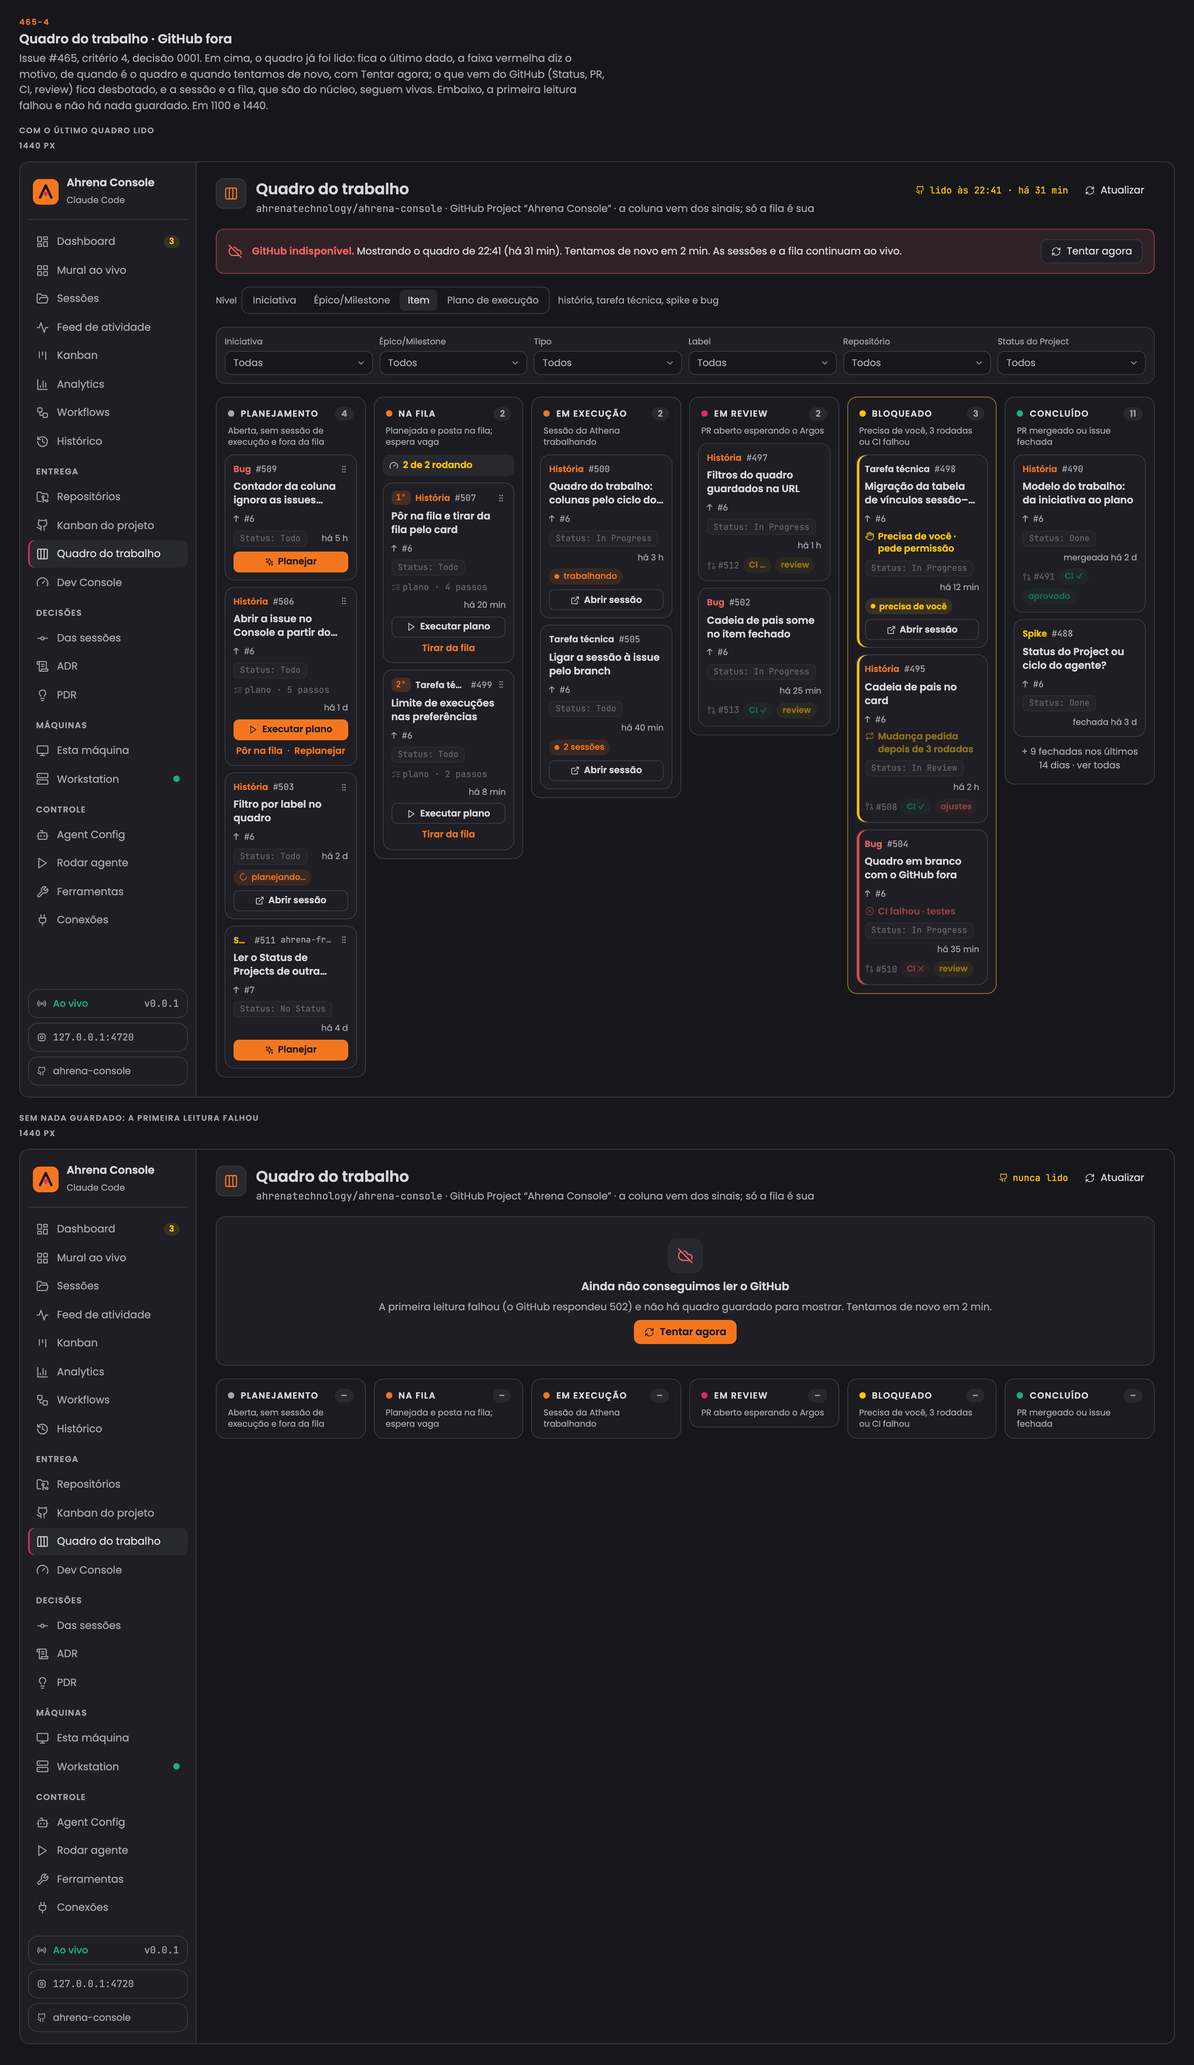
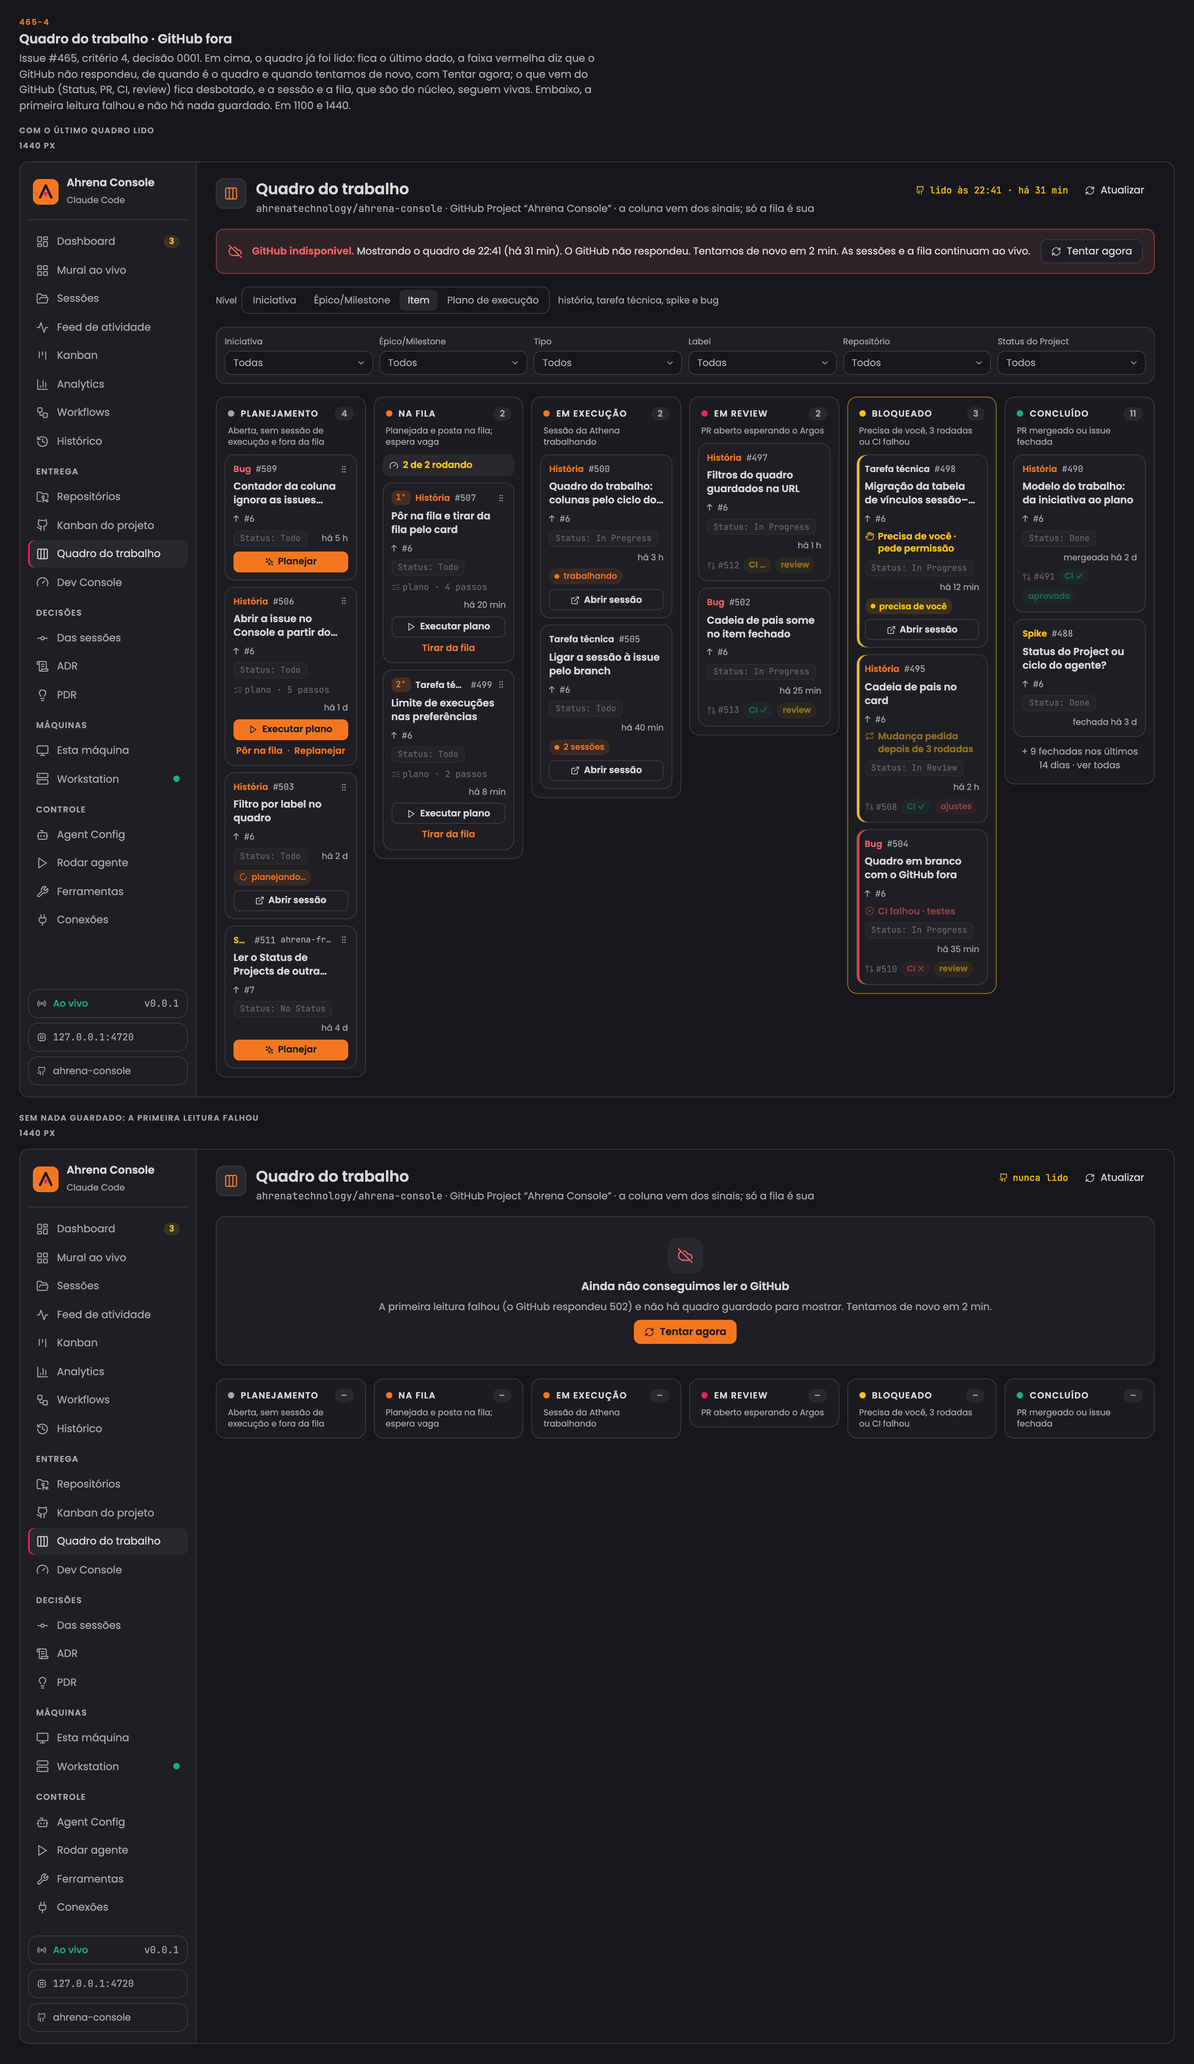
docs(wireframes): draw the stale band per reason, 614-1 and 614-2, approved by the design owner (#614)

diff --git a/docs/wireframes/index.html b/docs/wireframes/index.html
@@ -145,6 +145,10 @@
   --status-abandoned-badge: #f3f3f3;
 }
 /* marca:fim */
+.faixa.wb-stale-neutral { background: var(--raised); border-color: var(--border); }
+.faixa.wb-stale-neutral .ic, .faixa.wb-stale-neutral b { color: var(--text); }
+.faixa .wb-band-acts { margin-left: auto; display: flex; gap: 8px; flex: none; }
+.faixa .wb-band-acts .btn { margin-left: 0; }
 </style>
 <style>
 /* Layout: índice fixo à esquerda e, à direita, cada tela num quadro do tamanho real, com o que veio do CCAM embaixo. */
@@ -5475,9 +5479,15 @@ const TELAS = [
   { id: 'work-board-empty', cod: '465-3', nome: 'Quadro do trabalho · projeto sem issue', sub: 'Issue #465. O Project não tem nenhuma issue: o vazio diz o que o quadro mostraria e leva ao Project no GitHub ou à troca de Project. As seis colunas ficam com zero, para a pessoa já ver o ciclo; os filtros ficam desligados. Em 1100 e 1440.',
     html: () => wbBoth(wbEmptyScreen),
     n: N(['O EmptyState do C19: ícone, frase, o que fazer.'], ['Sem conexão com o GitHub, a tela é o “Conectar ao GitHub” do C42, não este vazio.', 'As colunas vazias ficam sem “Nenhuma” por coluna e sem o limite: o vazio de cima já explica.']) },
-  { id: 'work-board-stale', cod: '465-4', nome: 'Quadro do trabalho · GitHub fora', sub: 'Issue #465, critério 4, decisão 0001. Em cima, o quadro já foi lido: fica o último dado, a faixa vermelha diz o motivo, de quando é o quadro e quando tentamos de novo, com Tentar agora; o que vem do GitHub (Status, PR, CI, review) fica desbotado, e a sessão e a fila, que são do núcleo, seguem vivas. Embaixo, a primeira leitura falhou e não há nada guardado. Em 1100 e 1440.',
+  { id: 'work-board-stale', cod: '465-4', nome: 'Quadro do trabalho · GitHub fora', sub: 'Issue #465, critério 4, decisão 0001. Em cima, o quadro já foi lido: fica o último dado, a faixa vermelha diz que o GitHub não respondeu, de quando é o quadro e quando tentamos de novo, com Tentar agora; o que vem do GitHub (Status, PR, CI, review) fica desbotado, e a sessão e a fila, que são do núcleo, seguem vivas. Embaixo, a primeira leitura falhou e não há nada guardado. Em 1100 e 1440.',
     html: () => wbStaleHtml(),
     n: N(['Nada.'], ['Decisão 0001: o quadro guarda a última leitura boa e diz por quê; nunca esvazia porque o GitHub caiu. O texto é o mesmo do C19 (“GitHub indisponível. Mostrando … de 22:41. Tentamos de novo em 2 min.”).', 'No motivo de Bloqueado vale o mesmo: “CI falhou” e “Mudança pedida depois de 3 rodadas” vêm do GitHub e desbotam; “Precisa de você” vem do núcleo e fica forte.', 'A fila, a posição e o limite estão no banco do núcleo (#477) e não desbotam. As ações continuam: Planejar e Executar plano abrem a sessão neste Mac, e é a sessão que esbarra no GitHub fora (a aprovar, pergunta 11).', 'A hora do cabeçalho fica amarela enquanto o dado é velho, para quem não leu a faixa.']) },
+  { id: 'work-board-stale-bands', cod: '614-1', nome: 'Quadro do trabalho · a faixa por motivo', sub: 'Issue 614 (de 578), proposta. A faixa de leitura velha diz o motivo real que o núcleo entrega (staleReason, com retryAt): limite de taxa com a hora em que volta, credencial recusada com Reconectar, GitHub que não respondeu e sincronização pendente. Mesmo lugar e mesma forma da 465-4; muda título, tom e ação.',
+    html: () => wbReasonBandsHtml(),
+    n: N(['A faixa do C31 (âmbar, relógio) para o limite; a vermelha só quando algo precisa de você ou o GitHub caiu.'], ['“GitHub indisponível” passa a ser só o caso 4 (critério 4 da 614).', 'O “Motivo: …” no fim sai: o título já é o motivo.']) },
+  { id: 'work-board-stale-reasons', cod: '614-2', nome: 'Quadro do trabalho · faixa por motivo na tela', sub: 'Issue 614, proposta. A credencial recusada e o limite de taxa na tela inteira, em 1100 e 1440; o que vem do GitHub segue desbotado.',
+    html: () => wbReasonsHtml(),
+    n: N(['Nada.'], ['Decisão 0001 segue: o quadro guarda a última leitura boa.']) },
   { id: 'work-board-loading', cod: '465-5', nome: 'Quadro do trabalho · carregando', sub: 'Issue #465. Na primeira abertura, enquanto o GitHub é lido: as seis colunas com cards de esqueleto, os contadores em “…”, filtros desligados e Atualizar ocupado. Nas leituras seguintes o quadro fica e só o Atualizar gira. Em 1100 e 1440.',
     html: () => wbBoth(wbLoadingScreen),
     n: N(['O esqueleto do C19.'], ['O esqueleto tem a altura de um card curto, para o quadro não pular quando os dados chegam.']) },
@@ -6471,13 +6481,31 @@ const wbEmptyScreen = w => `${wbHead()}${wbLevels('item')}${wbFilters({}, { off:
   ${wbBoard(w, {}, { blank: true })}`
 
 // 465-4 · GitHub down (decision 0001): the last data read, the band, and the variant without any data saved.
-const wbStaleBand = `<div class="faixa erro"><span class="ic">${ic('cloud-off')}</span><div><b>GitHub indisponível.</b> Mostrando o quadro de 22:41 (há 31 min). Tentamos de novo em 2 min. As sessões e a fila continuam ao vivo.</div><span class="btn contorno">${ic('refresh-cw')}Tentar agora</span></div>`
+const wbStaleBand = `<div class="faixa erro wb-stale-band wb-stale-error"><span class="ic">${ic('cloud-off')}</span><div><b>GitHub indisponível.</b> Mostrando o quadro de 22:41 (há 31 min). O GitHub não respondeu. Tentamos de novo em 2 min. As sessões e a fila continuam ao vivo.</div><span class="btn contorno">${ic('refresh-cw')}Tentar agora</span></div>`
 const WB_READ_OLD = `<span class="wb-read wb-old">${ic('github')}lido às 22:41 · há 31 min</span>`
 const wbStaleScreen = w => `${wbHead({ read: WB_READ_OLD })}${wbStaleBand}${wbLevels('item')}${wbFilters()}<div class="wb-stale">${wbBoard(w, wbCols(), WB_MAIN)}</div>`
 const wbNoCacheScreen = w => `${wbHead({ read: `<span class="wb-read wb-old">${ic('github')}nunca lido</span>` })}
   <div class="cartao vazio wb-empty"><span class="ic" style="color:var(--status-error-text)">${ic('cloud-off')}</span><b>Ainda não conseguimos ler o GitHub</b><span>A primeira leitura falhou (o GitHub respondeu 502) e não há quadro guardado para mostrar. Tentamos de novo em 2 min.</span><span><span class="btn cheio">${ic('refresh-cw')}Tentar agora</span></span></div>
   ${wbBoard(w, {}, { blank: true, count: Object.fromEntries(WB_COLUMNS.map(([k]) => [k, '–'])) })}`
 const wbStaleHtml = () => wbRows([['Com o último quadro lido', wbStaleScreen], ['Sem nada guardado: a primeira leitura falhou', wbNoCacheScreen]])
+
+// 614-1 · the stale band per reason (issue 614, parent 578): one band per staleCode, same place and shape, its own title, tone and action.
+const WB_FROM = 'Mostrando o quadro de 22:41 (há 31 min).'
+const WB_LIVE = 'As sessões e a fila continuam ao vivo.'
+const wbBand = (tone, icon, title, body, acts = '') => `<div class="faixa wb-stale-band wb-stale-${tone}${tone === 'error' ? ' erro' : ''}"><span class="ic">${ic(icon)}</span><div><b>${title}</b> ${body}</div>${acts ? `<span class="wb-band-acts">${acts}</span>` : ''}</div>`
+const WB_RETRY = `<span class="btn contorno">${ic('refresh-cw')}Tentar agora</span>`
+const WB_REASON_BANDS = [
+  ['1 · Limite de taxa, com retryAt no futuro · âmbar, sem botão (o núcleo não chama o GitHub antes da hora)', wbBand('warn', 'clock', 'O GitHub limitou as chamadas.', `${WB_FROM} Volta às 23:16 (em 4 min). ${WB_LIVE}`)],
+  ['2 · Limite de taxa, retryAt nulo ou passado (a pausa já acabou) · âmbar, com Tentar agora', wbBand('warn', 'clock', 'O GitHub limitou as chamadas.', `${WB_FROM} O limite já passou; relemos na próxima sincronização. ${WB_LIVE}`, WB_RETRY)],
+  ['3 · Credencial recusada · vermelho, Reconectar (abre Conexões e já inicia o device flow)', wbBand('error', 'key-round', 'O GitHub recusou a credencial do console.', `${WB_FROM} O quadro só volta a se atualizar depois de reconectar. ${WB_LIVE}`, `<span class="btn cheio">${ic('github')}Reconectar</span>`)],
+  ['4 · GitHub não respondeu · vermelho, Tentar agora (o único com “GitHub indisponível”)', wbBand('error', 'cloud-off', 'GitHub indisponível.', `${WB_FROM} O GitHub não respondeu. Tentamos de novo em 2 min. ${WB_LIVE}`, WB_RETRY)],
+  ['5 · Sincronização pendente · neutro, Atualizar agora', wbBand('neutral', 'history', 'O quadro ainda não foi relido.', `${WB_FROM} A sincronização em segundo plano ainda não passou por ele; relemos em 2 min. ${WB_LIVE}`, `<span class="btn contorno">${ic('refresh-cw')}Atualizar agora</span>`)],
+  ['6 · Leitura ao vivo: credencial sem a permissão (no-scope) · vermelho, Reconectar', wbBand('error', 'key-round', 'A credencial do GitHub não tem a permissão necessária.', `${WB_FROM} Reconecte para conceder a permissão do quadro. ${WB_LIVE}`, `<span class="btn cheio">${ic('github')}Reconectar</span>`)],
+  ['7 · Leitura ao vivo: o GitHub respondeu com erro (github-error) · vermelho, Tentar agora', wbBand('error', 'cloud-off', 'O GitHub respondeu com erro.', `${WB_FROM} ${WB_LIVE}`, WB_RETRY)],
+]
+const wbReasonScreen = band => w => `${wbHead({ read: WB_READ_OLD })}${band}${wbLevels('item')}${wbFilters()}<div class="wb-stale">${wbBoard(w, wbCols(), WB_MAIN)}</div>`
+const wbReasonBandsHtml = () => `<div style="display:flex;flex-direction:column;gap:10px">${WB_REASON_BANDS.map(([t, b]) => `<div class="rotulo">${t}</div>${b}`).join('')}</div>`
+const wbReasonsHtml = () => wbRows([['Credencial recusada, na tela inteira', wbReasonScreen(WB_REASON_BANDS[2][1])], ['Limite de taxa, na tela inteira', wbReasonScreen(WB_REASON_BANDS[0][1])]])
 
 // 465-5 · loading (first open; later reads keep the board and only spin Atualizar).
 const wbSkel = () => `<div class="cartao wb-card"><div class="esq" style="height:10px;width:45%"></div><div class="esq" style="height:12px;width:92%"></div><div class="esq" style="height:12px;width:60%"></div><div class="esq" style="height:18px;width:52%"></div></div>`

diff --git a/docs/wireframes/README.md b/docs/wireframes/README.md
@@ -14,7 +14,7 @@ A versão do núcleo remoto e o comando de atualização (449-1 a 449-5, issue #
 
 O botão Atualizar o núcleo remoto (462-1 a 462-6, issue #462, decisão [0022](../decisoes/0022-remote-core-update-button.md), proposta): o botão na faixa de defasado, a confirmação que já traz o resultado do `--check`, o andamento em cinco passos, as recusas em que nada foi parado (saídas 20 a 23 e 30 a 33), o que a tela diz depois da troca (sucesso, falhou e voltou, falhou e a volta falhou com o caminho do backup, contato perdido, SSH) e o estado de falta configurar, com o bloco `connection.update` pronto e o card de copiar da 0021 como saída. As capturas desta camada ainda não foram geradas.
 
-O Quadro do trabalho (465-1 a 465-6, 466-1 a 466-3, 467-1, 477-1, 477-2, 478-1 a 478-3 e 598-1 a 598-4, issues #465, #466, #467, #468, #477, #478 e #598, épico #464; a fila de execução, 477-1 e 477-2, está aprovada por Fernando (PR #475), as várias organizações, 598-1 a 598-4 (com a organização lida antes que falha agora, os cards esmaecidos e a hora da leitura na faixa, no 598-3), aprovadas por Fernando em 14/11/2026, e as demais telas seguem a aprovar), numa seção própria no fim: as seis colunas do ciclo do agente (Planejamento, Na fila, Em execução, Em review, Bloqueado, Concluído), calculadas da sessão de execução, do PR com CI e review, do estado, do plano e da fila do Console, com o Status do Project como dado (465-1); a anatomia do card com cada parte numerada e as ações estado por estado: Planejar, “planejando…”, “plano · N passos” com Executar plano, Pôr na fila e Replanejar, Abrir sessão, e o épico sem ações (465-2); o projeto sem issue (465-3); o GitHub fora pela decisão 0001 (465-4); carregando (465-5); e Planejar e Executar plano, com a confirmação no card, o card que vai direto para Em execução com “subindo…”, o planejamento que falhou, o limite cheio e a pasta que falta (465-6). Por cima, a troca de nível e descer para os filhos (466-1), os seis filtros juntos por E, com chips, Limpar filtros, o link em inglês (`/ui/work?level=…&initiative=…&epic=…&type=…&label=…&repo=…&status=…`) e o Tipo aberto fora da moldura (466-2), e o filtro sem resultado (466-3). O detalhe da issue aberto pelo card, num painel à direita, sem plano, com plano e em review (467-1). A fila de execução, com a posição, o limite (“2 de 2 rodando”) e a fila parada por uma sessão que não subiu (477-1), e o arrasto: pôr na fila, reordenar, a recusa sem plano (“Planeje antes”) e a recusa das colunas de fato (477-2). Editar a issue e o plano no painel (478-1), o conflito com uma mudança feita no GitHub (478-2) e a recusa do GitHub (478-3). Os Projects de todas as organizações concedidas (598-1 a 598-4, aprovados): o cabeçalho que conta organizações e Projects (e, com uma só de cada, nomeia) e a linha de origem em cada card (598-1, `work-board-orgs-header`); os filtros Organização e Project junto dos seis, com chips, Limpar filtros, o link em inglês (`/ui/work?org=…&project=…&…`), os menus abertos e a troca de organização que devolve o Project a Todos (598-2, `work-board-org-filters`); a organização que restringe o app ou cuja leitura falhou como aviso empilhado, com o motivo, Aprovar (dono), Pedir acesso e Tentar de novo, sem derrubar as outras (598-3, `work-board-org-warning`); e carregando, sem issue, sem Project e todas com aviso, sem “Trocar de Project” (598-4, `work-board-orgs-states`). O Kanban do projeto (C11) fica ao lado. Capturas em [capturas/](capturas/) com o id da tela, como `<id>-<largura>-<tema>.png` (por exemplo `work-board-1100-dark.png`, `work-board-drag-1440-light.png`); a anatomia (465-2) não tem largura própria e sai como `work-board-card-<tema>.png`.
+O Quadro do trabalho (465-1 a 465-6, 466-1 a 466-3, 467-1, 477-1, 477-2, 478-1 a 478-3 e 598-1 a 598-4, issues #465, #466, #467, #468, #477, #478 e #598, épico #464; a fila de execução, 477-1 e 477-2, está aprovada por Fernando (PR #475), as várias organizações, 598-1 a 598-4 (com a organização lida antes que falha agora, os cards esmaecidos e a hora da leitura na faixa, no 598-3), aprovadas por Fernando em 14/11/2026, a faixa de leitura velha por motivo, 614-1 e 614-2, aprovada pelo design owner, e as demais telas seguem a aprovar), numa seção própria no fim: as seis colunas do ciclo do agente (Planejamento, Na fila, Em execução, Em review, Bloqueado, Concluído), calculadas da sessão de execução, do PR com CI e review, do estado, do plano e da fila do Console, com o Status do Project como dado (465-1); a anatomia do card com cada parte numerada e as ações estado por estado: Planejar, “planejando…”, “plano · N passos” com Executar plano, Pôr na fila e Replanejar, Abrir sessão, e o épico sem ações (465-2); o projeto sem issue (465-3); o GitHub fora pela decisão 0001 (465-4); a faixa de leitura velha com o motivo real que o núcleo entrega: limite de taxa com a hora em que volta e sem botão, ou com Tentar agora quando a pausa já acabou, credencial recusada e sem permissão com Reconectar, GitHub que não respondeu e erro do GitHub com Tentar agora, e sincronização pendente com Atualizar agora, as sete faixas juntas em 614-1 (`work-board-stale-bands`) e a credencial recusada e o limite na tela inteira em 614-2 (`work-board-stale-reasons`), com “GitHub indisponível.” só quando o GitHub não respondeu e sem o “Motivo: …” no fim; carregando (465-5); e Planejar e Executar plano, com a confirmação no card, o card que vai direto para Em execução com “subindo…”, o planejamento que falhou, o limite cheio e a pasta que falta (465-6). Por cima, a troca de nível e descer para os filhos (466-1), os seis filtros juntos por E, com chips, Limpar filtros, o link em inglês (`/ui/work?level=…&initiative=…&epic=…&type=…&label=…&repo=…&status=…`) e o Tipo aberto fora da moldura (466-2), e o filtro sem resultado (466-3). O detalhe da issue aberto pelo card, num painel à direita, sem plano, com plano e em review (467-1). A fila de execução, com a posição, o limite (“2 de 2 rodando”) e a fila parada por uma sessão que não subiu (477-1), e o arrasto: pôr na fila, reordenar, a recusa sem plano (“Planeje antes”) e a recusa das colunas de fato (477-2). Editar a issue e o plano no painel (478-1), o conflito com uma mudança feita no GitHub (478-2) e a recusa do GitHub (478-3). Os Projects de todas as organizações concedidas (598-1 a 598-4, aprovados): o cabeçalho que conta organizações e Projects (e, com uma só de cada, nomeia) e a linha de origem em cada card (598-1, `work-board-orgs-header`); os filtros Organização e Project junto dos seis, com chips, Limpar filtros, o link em inglês (`/ui/work?org=…&project=…&…`), os menus abertos e a troca de organização que devolve o Project a Todos (598-2, `work-board-org-filters`); a organização que restringe o app ou cuja leitura falhou como aviso empilhado, com o motivo, Aprovar (dono), Pedir acesso e Tentar de novo, sem derrubar as outras (598-3, `work-board-org-warning`); e carregando, sem issue, sem Project e todas com aviso, sem “Trocar de Project” (598-4, `work-board-orgs-states`). O Kanban do projeto (C11) fica ao lado. Capturas em [capturas/](capturas/) com o id da tela, como `<id>-<largura>-<tema>.png` (por exemplo `work-board-1100-dark.png`, `work-board-drag-1440-light.png`); a anatomia (465-2) não tem largura própria e sai como `work-board-card-<tema>.png`.
 
 A vista do agente (521-1 a 521-10, issue 521, da issue 518, aprovada por Fernando em 14/11/2026), numa seção própria no fim: cada linha de subagente da aba Agentes vira link e leva a uma vista do agente, com o brief que recebeu, a sequência do que fez (ferramentas e subagentes filhos, aninhados como na aba), duração, custo, estado e o resultado final. Onde mora e o fluxo, com a recomendação de uma rota própria `/ui/sessions/<id>/agents/<agent>` (521-1); a aba Agentes com as linhas links, recuadas pelo `parent` (521-2); o agente concluído, com a anatomia numerada (521-3); o aninhamento fundo e as dobras do brief, da sequência e do resultado (521-4); o agente rodando, sem resultado ainda (521-5); carregando (521-6); sem brief e sem custo, sem zero inventado (521-7); os erros: o agente falhou, a leitura falhou com Tentar de novo e o agente que não existe (521-8); o nó do laço da aba Workflow com uma segunda ação (521-9); e o que a vista pede ao núcleo e ele ainda não serve, G1 a G8, marcado nas telas como “dado novo” (521-10). Capturas em [capturas/](capturas/) como `agent-view-<tela>-<largura>-<tema>.png` (por exemplo `agent-view-finished-1100-dark.png`; `agent-view-flow-<tema>.png` e `agent-view-data-<tema>.png` não têm largura própria).
 
